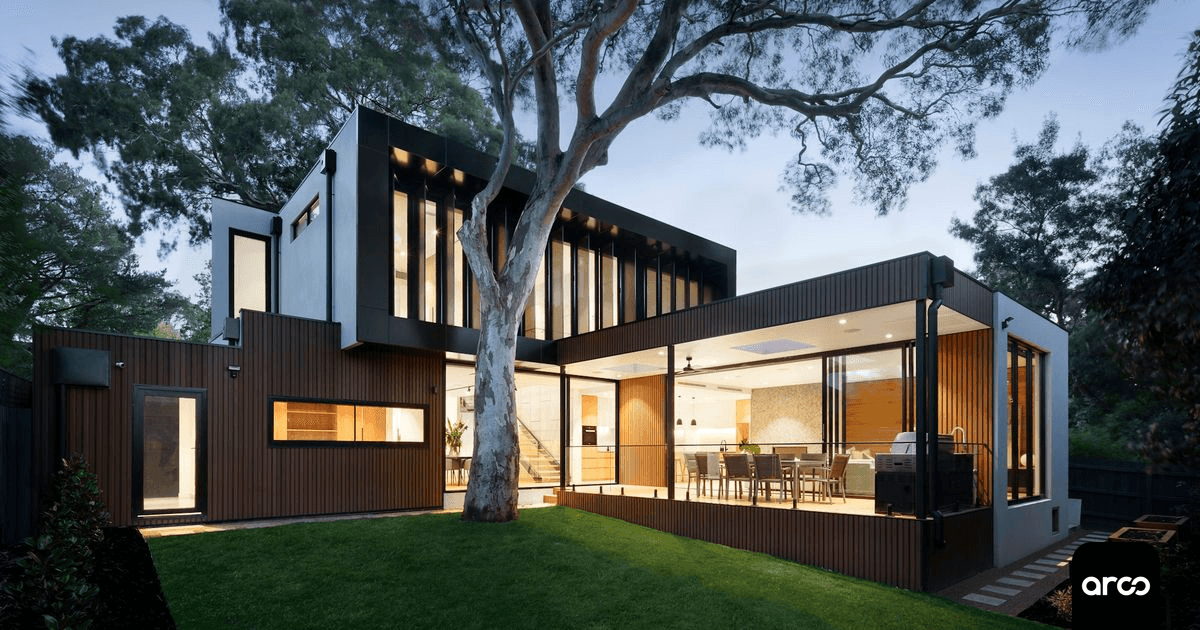
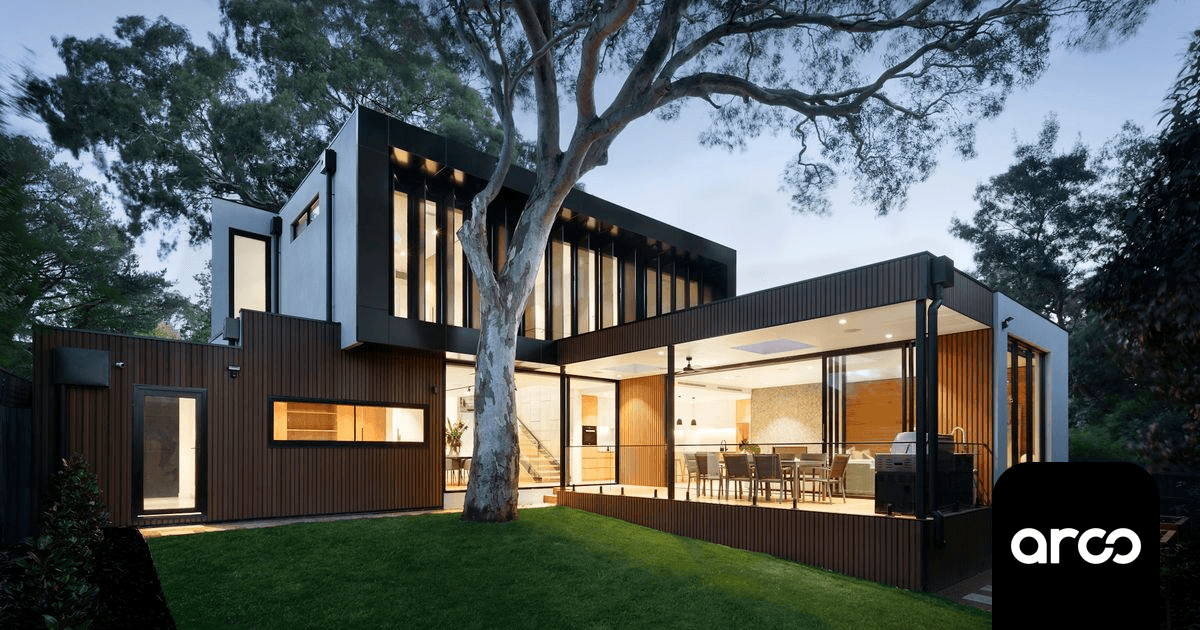
OG mockups: switch badge size rule to 14% of canvas width
Previous rule sized the badge by the canvas's shorter side, which on
1.91:1 landscape cards (the OG default) anchored to the 630px height
and produced an 88px badge. On the 1080px-wide Instagram square it
was 151px — visually much heavier. Unifying on a 14%-of-width rule
gives the landscape badge 168px, matching the weight of the square
across platforms.

Re-renders og-social-og-landscape.png; other ratios unchanged since
their shorter side already equals their width.

Changed region(s): [[0.8017, 0.7238, 0.9867, 1.0], [0.6167, 0.6937, 0.6475, 0.7238]]

diff --git a/docs/mockups/og-card-logo-placement.html b/docs/mockups/og-card-logo-placement.html
@@ -48,8 +48,9 @@
   }
 
   /* ── The badge ─── single rule for every aspect ratio.
-     Size: 14% of the card's *shorter side* — min(14cqw, 14cqh).
-       • Landscape (1200×630) → 14% × 630 = ~88px
+     Size: 14% of the canvas WIDTH — uniform across ratios so the landscape
+     OG card gets the same visual weight as the square Instagram card.
+       • Landscape (1200×630)  → 14% × 1200 = ~168px
        • Square    (1080×1080) → 14% × 1080 = ~151px
        • Portrait  (1080×1350) → 14% × 1080 = ~151px
        • Story     (1080×1920) → 14% × 1080 = ~151px
@@ -59,7 +60,7 @@
     position: absolute;
     right: 3.3%;
     bottom: 0;
-    width: min(14cqw, 14cqh);
+    width: 14%;
     aspect-ratio: 1 / 1;
     background-image: url('../../public/arco-og-badge.png');
     background-size: contain;
@@ -134,14 +135,14 @@
 <body>
 <div class="wrap">
   <h1>Branded social image — option B, across platforms</h1>
-  <p class="lede">Single placement rule everywhere: badge flush with the bottom edge, <strong>3.3% off the right edge</strong>, sized at <strong>14% of the canvas's shorter side</strong>. That's one CSS line — <code>width: min(14cqw, 14cqh); aspect-ratio: 1</code> — so the badge scales up automatically on portrait / square / story canvases where the shorter side is the width, and holds at ~88px on the landscape OG card where the shorter side is the height.</p>
+  <p class="lede">Single placement rule everywhere: badge flush with the bottom edge, <strong>3.3% off the right edge</strong>, sized at <strong>14% of the canvas width</strong>. That's one CSS line — <code>width: 14%; aspect-ratio: 1</code> — uniform across ratios so the landscape OG card carries the same visual weight as the Instagram square.</p>
 
   <div class="rail">
 
     <!-- 1 — OG / Twitter / LinkedIn / FB / WhatsApp / Slack -->
     <div class="slot full">
       <h2>1.91 : 1 — OG / Twitter · LinkedIn · Facebook · WhatsApp · Slack</h2>
-      <div class="meta">1200 × 630 · badge 14% of 630 ≈ 88px</div>
+      <div class="meta">1200 × 630 · badge 14% of 1200 ≈ 168px</div>
       <div class="card-wrap">
         <div class="card r-og">
           <div class="badge"></div>
@@ -200,10 +201,10 @@
     <h3>Locked spec — badge rules (all formats)</h3>
     <p><strong>Asset:</strong> <code>/public/arco-og-badge.png</code> (312×312 master; source at <code>docs/brand/arco-og-badge-source.png</code>).</p>
     <p><strong>Position:</strong> flush with the bottom edge of the canvas, <strong>3.3% off the right edge</strong>. Pinned in percentages so it lands in the same visual spot regardless of aspect ratio.</p>
-    <p><strong>Size:</strong> <strong>14% of the canvas's shorter side</strong> — a single rule for every ratio. CSS: <code>width: min(14cqw, 14cqh); aspect-ratio: 1</code> on a card with <code>container-type: size</code>. Resolves to:
-      <br><code>landscape 1200×630</code> — 88px (short side = height)
+    <p><strong>Size:</strong> <strong>14% of the canvas width</strong> — a single rule for every ratio. CSS: <code>width: 14%; aspect-ratio: 1</code>. Resolves to:
+      <br><code>landscape 1200×630</code> — 168px
       <br><code>square 1080×1080</code> — 151px
-      <br><code>portrait 1080×1350</code> — 151px (short side = width)
+      <br><code>portrait 1080×1350</code> — 151px
       <br><code>story 1080×1920</code> — 151px
       <br><code>pin 1000×1500</code> — 140px
     </p>
